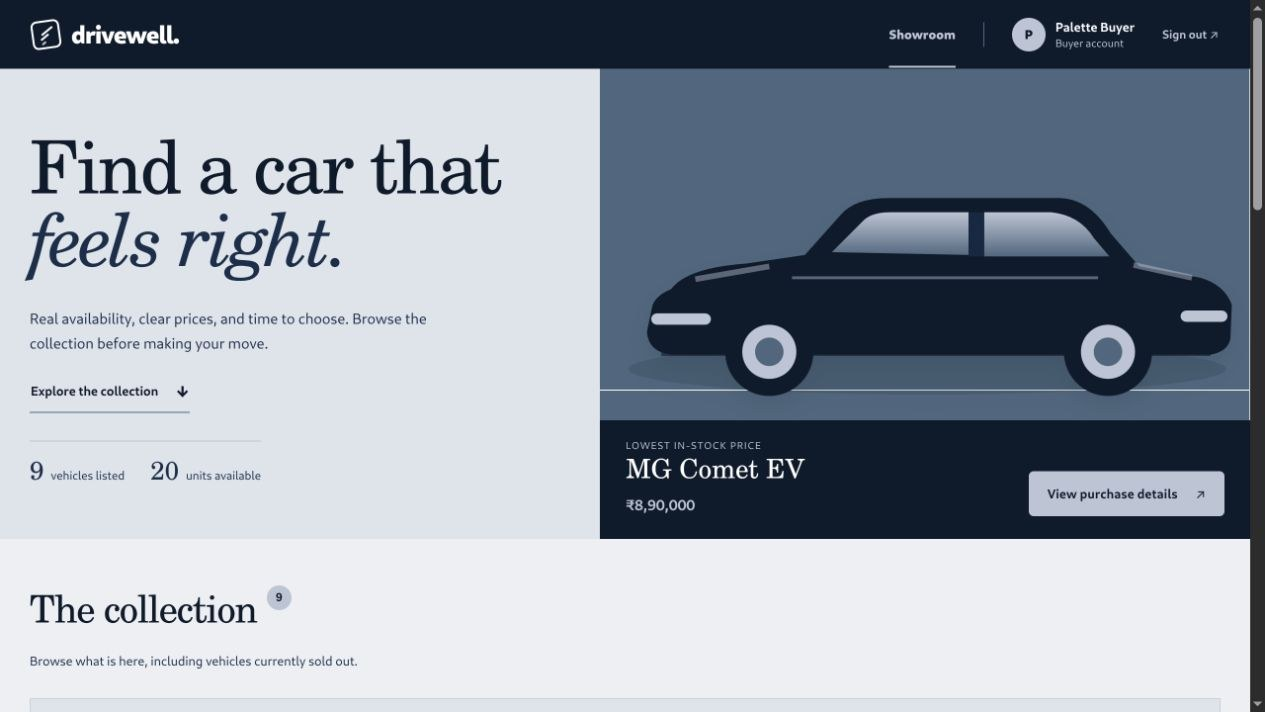
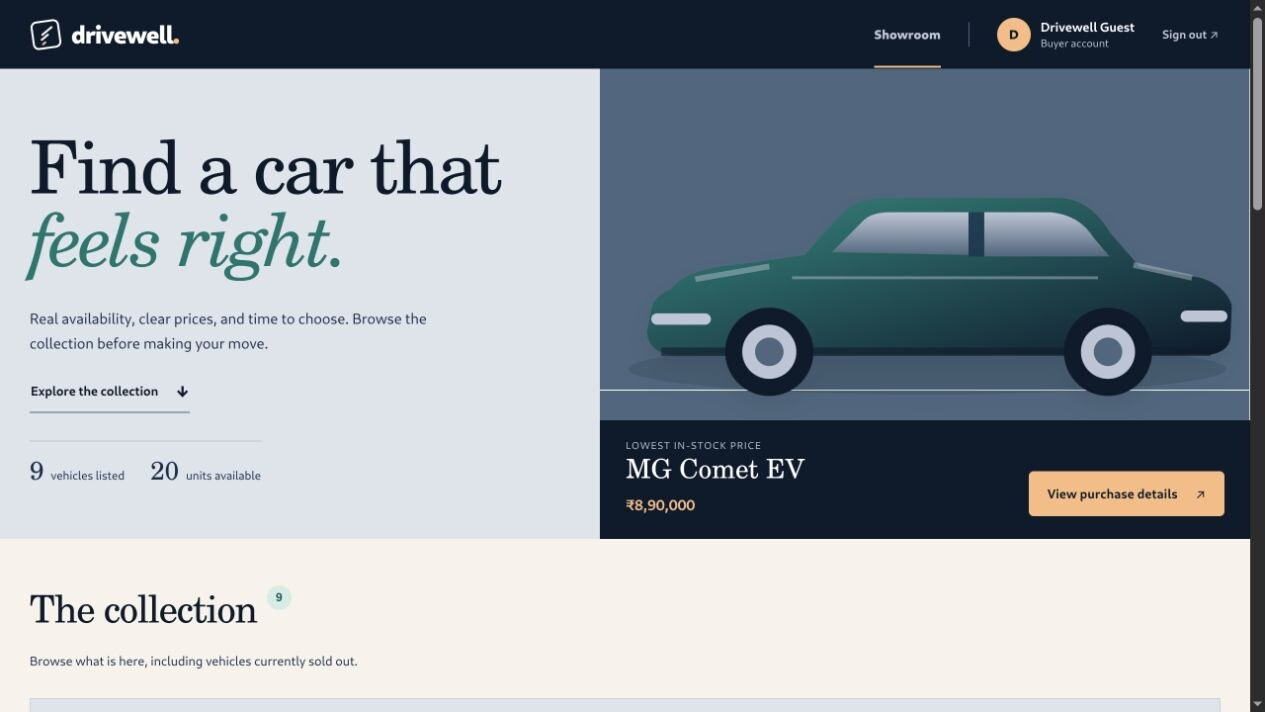
design: add purposeful accents and refresh screenshots
Use apricot for key actions, sea-glass for available stock, and warm colors for low and empty inventory. Give vehicle illustrations category-based color and recapture seven live application states.

diff --git a/src/palette.css b/src/palette.css
@@ -1,42 +1,52 @@
-/* The reference palette: Midnight #1C2E4A, Dusty #52677D,
-   Ivory #BDC4D4, and Deep Navy #0F1A2B. White only lifts reading surfaces. */
+/* The supplied blues anchor the interface. Warm and sea-glass accents make
+   actions and stock states easier to scan without changing its character. */
 :root {
   --midnight-blue: #1c2e4a;
   --dusty-blue: #52677d;
   --ivory: #bdc4d4;
   --deep-navy: #0f1a2b;
-  --paper: color-mix(in srgb, var(--ivory) 27%, white);
+  --warm-cream: #f7f3ec;
+  --apricot: #f2bd89;
+  --copper: #b65a38;
+  --sea-glass: #30766e;
+  --sea-glass-soft: #d9ebe6;
+  --amber-soft: #f6e8d1;
+  --rose-soft: #f4e0dc;
+  --paper: var(--warm-cream);
   --soft-blue: color-mix(in srgb, var(--ivory) 48%, white);
   --line: color-mix(in srgb, var(--dusty-blue) 30%, white);
   --ink: var(--deep-navy);
   --muted: var(--midnight-blue);
   --white: #fff;
-  --orange: var(--ivory);
+  --orange: var(--apricot);
   color: var(--ink);
   background: var(--paper);
 }
 
-::selection { background: var(--ivory); color: var(--deep-navy); }
+::selection { background: var(--apricot); color: var(--deep-navy); }
 .app-shell { background: var(--paper); }
 .header-inner { max-width: none; width: 100%; padding-inline: clamp(18px, 2.5vw, 40px); }
 .site-header, .site-footer { background: var(--deep-navy); color: white; }
-.site-header .brand, .site-header .brand-period { color: white; }
+.site-header .brand { color: white; }
+.site-header .brand-period { color: var(--apricot); }
 .nav-active, .logout-button, .user-text small, .site-footer > span, .site-footer small { color: var(--ivory); }
-.nav-active:after { background: var(--ivory); }
+.nav-active:after { background: var(--apricot); }
 .nav-divider { border-color: var(--dusty-blue); }
-.user-avatar { background: var(--ivory); color: var(--deep-navy); }
+.user-avatar { background: var(--apricot); color: var(--deep-navy); }
 .logout-button:hover { color: white; }
 
 .button-primary { background: var(--midnight-blue); color: white; }
 .button-primary:not(:disabled):hover { background: var(--deep-navy); }
+.add-button { background: var(--sea-glass); }
+.add-button:not(:disabled):hover { background: #205a54; }
 .button-outline { border-color: var(--dusty-blue); color: var(--deep-navy); }
 .button-outline:hover { border-color: var(--midnight-blue); background: var(--soft-blue); }
 .button-quiet { background: var(--soft-blue); color: var(--deep-navy); }
-.button-danger { background: var(--deep-navy); color: white; }
-.button-danger:hover { background: var(--midnight-blue); }
+.button-danger { background: #983f3a; color: white; }
+.button-danger:hover { background: #782f2c; }
 .button:focus-visible, a:focus-visible, input:focus-visible, .row-text-action:focus-visible,
 .logout-button:focus-visible, .attention-item button:focus-visible {
-  outline: 3px solid var(--dusty-blue);
+  outline: 3px solid var(--copper);
   outline-offset: 3px;
 }
 input { background: white; color: var(--deep-navy); border-color: var(--line); }
@@ -44,50 +54,55 @@ input::placeholder { color: var(--dusty-blue); }
 input:focus { border-color: var(--dusty-blue); box-shadow: 0 0 0 3px color-mix(in srgb, var(--dusty-blue) 30%, transparent); }
 label, .muted, .form-hint { color: var(--midnight-blue); }
 .eyebrow, .clear-button { color: var(--midnight-blue); }
-.form-error { color: var(--deep-navy); background: var(--soft-blue); border-color: var(--dusty-blue); border-left-width: 4px; }
-.notice { color: var(--deep-navy); background: var(--soft-blue); border-color: var(--line); }
+.form-error { color: #71302d; background: var(--rose-soft); border-color: #d6a39a; border-left-width: 4px; }
+.notice { color: var(--deep-navy); background: var(--sea-glass-soft); border-color: #a6d0c6; }
 
 .auth-shell, .auth-story { background: var(--ivory); color: var(--deep-navy); }
 .auth-story:before { color: var(--dusty-blue); opacity: .17; }
-.auth-story .brand-light, .auth-story .brand-period, .auth-story .accent-dot { color: var(--deep-navy); }
+.auth-story .brand-light { color: var(--deep-navy); }
+.auth-story .brand-period, .auth-story .accent-dot { color: var(--copper); }
 .auth-story-content p, .auth-story-footer { color: var(--midnight-blue); }
 .auth-panel { background: var(--deep-navy); color: white; }
 .auth-panel h2, .auth-panel .muted, .auth-form label { color: white; }
 .auth-tabs, .auth-footnote { border-color: var(--dusty-blue); }
 .auth-tabs button, .auth-footnote { color: var(--ivory); }
 .auth-tabs button.active { color: white; }
-.auth-tabs button.active:after { background: var(--ivory); }
+.auth-tabs button.active:after { background: var(--apricot); }
 .auth-form input { background: white; }
-.auth-submit { background: var(--ivory); color: var(--deep-navy); }
-.auth-submit:not(:disabled):hover { background: white; }
+.auth-submit { background: var(--apricot); color: var(--deep-navy); }
+.auth-submit:not(:disabled):hover { background: #ffd0a4; }
 
 .workspace-hero { background: var(--midnight-blue); color: white; }
 .workspace-copy p { color: var(--ivory); }
-.workspace-copy .hero-link { color: white; border-color: var(--ivory); }
+.workspace-copy .hero-link { color: var(--apricot); border-color: var(--apricot); }
 .workspace-scoreboard { background: var(--ivory); color: var(--deep-navy); }
-.scoreboard-live i { background: var(--midnight-blue); }
+.scoreboard-live i { background: var(--sea-glass); }
 .workspace-scoreboard > p, .workspace-scoreboard dt { color: var(--midnight-blue); }
 .workspace-scoreboard dl > div { border-color: var(--dusty-blue); }
 
 .showroom-copy { background: var(--soft-blue); color: var(--deep-navy); }
-.showroom-copy h1 em, .showroom-copy p, .showroom-facts, .showroom-facts strong { color: var(--midnight-blue); }
+.showroom-copy h1 em { color: var(--sea-glass); }
+.showroom-copy p, .showroom-facts, .showroom-facts strong { color: var(--midnight-blue); }
 .showroom-copy .hero-link { color: var(--deep-navy); border-color: var(--dusty-blue); }
 .showroom-facts { border-color: var(--ivory); }
 .showroom-feature { background: var(--deep-navy); color: white; }
 .feature-art .vehicle-art { background: var(--dusty-blue); }
-.feature-bottom > div > span, .feature-bottom strong, .feature-empty p { color: var(--ivory); }
-.feature-bottom .button { background: var(--ivory); color: var(--deep-navy); }
-.feature-bottom .button:hover { background: white; }
+.feature-bottom > div > span, .feature-empty p { color: var(--ivory); }
+.feature-bottom strong { color: var(--apricot); }
+.feature-bottom .button { background: var(--apricot); color: var(--deep-navy); }
+.feature-bottom .button:hover { background: #ffd0a4; }
 
 .inventory-heading h2, .attention-intro h2, .empty-state h3 { color: var(--deep-navy); }
 .inventory-heading p, .filters label, .result-line, .empty-state p { color: var(--midnight-blue); }
-.heading-count { background: var(--ivory); color: var(--deep-navy); }
+.heading-count { background: var(--sea-glass-soft); color: #205a54; }
 .filters { background: var(--soft-blue); border-color: var(--line); }
 .empty-state { background: white; border-color: var(--line); }
-.attention-section { background: var(--ivory); border-color: var(--line); }
-.attention-intro p, .attention-item small, .attention-item button { color: var(--midnight-blue); }
-.attention-list, .attention-item + .attention-item { border-color: var(--dusty-blue); }
-.attention-quantity { background: var(--midnight-blue); color: white; }
+.attention-section { background: var(--amber-soft); border-color: #e9d0ab; }
+.attention-intro p, .attention-item small, .attention-item button { color: #6d4930; }
+.attention-item button:hover { color: #8f391f; }
+.attention-list, .attention-item + .attention-item { border-color: #dbbc91; }
+.attention-quantity { background: var(--copper); color: white; }
+.attention-quantity.is-empty { background: #983f3a; }
 
 .inventory-table { background: white; border-color: var(--midnight-blue); }
 .inventory-table-head { background: var(--soft-blue); color: var(--midnight-blue); }
@@ -95,8 +110,9 @@ label, .muted, .form-hint { color: var(--midnight-blue); }
 .inventory-row:hover { background: var(--soft-blue); }
 .row-monogram { background: var(--ivory); color: var(--deep-navy); }
 .inventory-row-name small, .inventory-row-category, .inventory-row-stock,
-.inventory-row-stock.is-low, .inventory-row-stock.is-empty, .inventory-row-price,
-.row-text-action, .row-delete { color: var(--midnight-blue); }
+.inventory-row-price, .row-text-action { color: var(--midnight-blue); }
+.inventory-row-stock.is-low { color: #8b541d; }
+.inventory-row-stock.is-empty, .row-delete { color: #983f3a; }
 
 .buyer-shell .vehicle-card { background: white; border-color: var(--line); }
 .buyer-shell .vehicle-card:hover { box-shadow: 0 18px 34px color-mix(in srgb, var(--deep-navy) 18%, transparent); }
@@ -106,9 +122,9 @@ label, .muted, .form-hint { color: var(--midnight-blue); }
 .card-meta, .buyer-shell .vehicle-card h3 span, .card-price span { color: var(--midnight-blue); }
 .card-price, .admin-card-actions { border-color: var(--line); }
 .buyer-shell .card-price strong { color: var(--deep-navy); }
-.buyer-shell .stock-pill { color: var(--deep-navy); background: var(--ivory); }
-.buyer-shell .stock-pill.low-stock { color: var(--deep-navy); background: var(--soft-blue); outline: 1px solid var(--dusty-blue); }
-.buyer-shell .stock-pill.sold-out { color: white; background: var(--dusty-blue); }
+.buyer-shell .stock-pill { color: #205a54; background: var(--sea-glass-soft); }
+.buyer-shell .stock-pill.low-stock { color: #704313; background: var(--amber-soft); outline: 1px solid #d6b27a; }
+.buyer-shell .stock-pill.sold-out { color: #782f2c; background: var(--rose-soft); }
 .buyer-shell .purchase-button:disabled { background: var(--ivory); color: var(--deep-navy); }
 
 .modal { background: white; color: var(--deep-navy); }
@@ -117,8 +133,8 @@ label, .muted, .form-hint { color: var(--midnight-blue); }
 .modal-header .eyebrow, .dialog-content > p:not(.dialog-lead), .icon-button,
 .history-list small { color: var(--midnight-blue); }
 .icon-button { border-color: var(--line); }
-.success-emblem, .history-symbol { background: var(--ivory); color: var(--deep-navy); border-color: var(--line); }
-.history-symbol.negative { background: var(--dusty-blue); color: white; }
+.success-emblem, .history-symbol { background: var(--sea-glass-soft); color: #205a54; border-color: #a6d0c6; }
+.history-symbol.negative { background: var(--rose-soft); color: #782f2c; }
 
 @media (max-width: 690px) {
   .header-inner { padding-inline: 18px; }

diff --git a/src/App.tsx b/src/App.tsx
@@ -34,11 +34,9 @@ function Logo({ light = false }: { light?: boolean }) {
 }
 
 function VehicleArt({ vehicle, large = false }: { vehicle: Vehicle; large?: boolean }) {
-  const colors = ['#52677d', '#1c2e4a', '#52677d', '#0f1a2b'];
-  const index = [...vehicle.model].reduce((sum, character) => sum + character.charCodeAt(0), 0) % colors.length;
-  const color = colors[index];
   const category = vehicle.category.toLowerCase();
   const shape = category.includes('suv') || category.includes('adventure') ? 'suv' : category.includes('family') ? 'mpv' : category.includes('electric') ? 'compact' : 'sedan';
+  const color = { suv: '#52677d', mpv: '#b66d51', compact: '#39877f', sedan: '#b75f45' }[shape];
   const artId = useId().replace(/:/g, '');
   const bodies = {
     sedan: 'M67 145 Q76 127 112 124 L159 119 Q182 75 230 69 L338 69 Q386 74 410 119 L453 127 Q473 132 480 148 L477 179 Q474 188 463 189 L69 189 Q56 185 56 175 L59 156 Q60 149 67 145Z',
@@ -308,7 +306,7 @@ function App() {
       </section>}
 
       <section className="content-wrap" id="inventory">
-        {isAdmin && lowStockVehicles.length > 0 && <section className="attention-section" aria-label="Vehicles needing attention"><div className="attention-intro"><h2>Restock queue</h2><p>Zero or one unit remaining. Take action before a buyer reaches an empty listing.</p></div><div className="attention-list">{lowStockVehicles.map((vehicle) => <div className="attention-item" key={vehicle.id}><span className="attention-quantity">{vehicle.quantity === 0 ? 'OUT' : '01'}</span><span><strong>{vehicle.make} {vehicle.model}</strong><small>{vehicle.quantity === 0 ? 'Out of stock' : 'Only one left'}</small></span><button onClick={() => open('restock', vehicle)} aria-label={`Restock ${vehicle.make} ${vehicle.model}`}>Restock <span aria-hidden="true">↗</span></button></div>)}</div></section>}
+        {isAdmin && lowStockVehicles.length > 0 && <section className="attention-section" aria-label="Vehicles needing attention"><div className="attention-intro"><h2>Restock queue</h2><p>Zero or one unit remaining. Take action before a buyer reaches an empty listing.</p></div><div className="attention-list">{lowStockVehicles.map((vehicle) => <div className="attention-item" key={vehicle.id}><span className={`attention-quantity ${vehicle.quantity === 0 ? 'is-empty' : ''}`}>{vehicle.quantity === 0 ? 'OUT' : '01'}</span><span><strong>{vehicle.make} {vehicle.model}</strong><small>{vehicle.quantity === 0 ? 'Out of stock' : 'Only one left'}</small></span><button onClick={() => open('restock', vehicle)} aria-label={`Restock ${vehicle.make} ${vehicle.model}`}>Restock <span aria-hidden="true">↗</span></button></div>)}</div></section>}
         <div className="inventory-heading"><div><h2>{isAdmin ? 'Inventory records' : 'The collection'}<span className="heading-count">{vehicles.length}</span></h2><p>{isAdmin ? 'Search, correct, and trace every vehicle in one place.' : 'Browse what is here, including vehicles currently sold out.'}</p></div>{isAdmin && <button className="button button-primary add-button" onClick={() => open('add')}>+ Add vehicle</button>}</div>
         <div className="filters" aria-label="Vehicle filters">
           <label>MAKE<input value={filters.make} onChange={(event) => setFilters({ ...filters, make: event.target.value })} placeholder="Search make" /></label>

diff --git a/PROMPTS.md b/PROMPTS.md
@@ -291,3 +291,41 @@ The admin screen now uses the supplied blue palette, and the header groups sit n
 Both screens look consistent with the new palette. The buyer cards, sold-out state, and receipt also render clearly, and the screenshots are refreshed. I’m updating the design notes and running the final checks.
 ~~~
 
+## Accent and screenshot follow-up — 2026-10-25
+
+### User
+
+~~~text
+also no need to follow the template strictly you can add some relevant and good looking colors at some places/sections and also update the screenshots in the readme as well
+~~~
+
+### Assistant
+
+~~~text
+I’ll add a few restrained accent colors where they help distinguish actions and status, then capture fresh README screenshots from the updated interface. I’ll check the current branch and existing design first.
+~~~
+
+### Assistant
+
+~~~text
+The current version uses the four reference colors almost everywhere, so stock warnings and primary actions blend into the surrounding panels. I’m keeping the navy and blue structure while adding a small warm accent for actions and a clearer set of colors for availability.
+~~~
+
+### Assistant
+
+~~~text
+The updated views look coherent in the browser: the warm action color draws the eye, while teal marks available stock and the sand panel separates the restock queue. I’m refreshing the screenshots now using a disposable preview account and database.
+~~~
+
+### Assistant
+
+~~~text
+The seven README images are refreshed, including the low-stock queue, a sold-out listing, and the test receipt. The production build and all 10 tests pass. I’m finishing the documentation and privacy check, then I’ll commit and push the design branch.
+~~~
+
+### Assistant
+
+~~~text
+Done. I kept the navy and blue foundation and added apricot for primary actions, teal for available stock, and amber and rose for low or empty stock. Vehicle artwork now has distinct body colors. I refreshed all seven README screenshots using disposable preview data and updated the design notes. The production build and all 10 tests pass. The changes are pushed to `design/drivewell-ui-refinement`.
+~~~
+

diff --git a/README.md b/README.md
@@ -17,6 +17,8 @@ A purchase records an inventory change and reduces stock by one. **This demo doe
 
 ## Screenshots
 
+Captured from the running app with seeded demo inventory and disposable preview accounts. The receipt shows a test purchase; no payment was taken.
+
 ![Sign-in screen](docs/screenshots/sign-in.jpg)
 
 ![Inventory overview](docs/screenshots/inventory-overview.jpg)
@@ -106,7 +108,7 @@ The stock history and guarded final-unit purchase are deliberately practical add
 
 ### Design choices
 
-- The header places the Drivewell mark near the left edge and account controls near the right edge, leaving the center clear at wide widths. The palette follows the supplied Midnight Blue (`#1C2E4A`), Dusty Blue (`#52677D`), Ivory (`#BDC4D4`), and Deep Navy (`#0F1A2B`) reference; white is used only to lift reading surfaces and text.
+- The header places the Drivewell mark near the left edge and account controls near the right edge, leaving the center clear at wide widths. Midnight Blue (`#1C2E4A`), Dusty Blue (`#52677D`), Ivory (`#BDC4D4`), and Deep Navy (`#0F1A2B`) anchor the palette. Apricot draws attention to primary actions, sea-glass marks available stock, and warm amber and rose distinguish low and empty stock.
 - The buyer showroom and admin stock desk have different layouts because their jobs are different. Buyers see a featured car with the lowest in-stock price and browse horizontal vehicle cards. Admins get a compact stock ledger, live totals, and a restock queue for cars with zero or one unit left.
 - Search remains available in both views. Sold-out listings stay visible to buyers with the purchase action disabled; admins can restock, edit, trace stock history, or remove a listing from the ledger.
 - Category-based illustrations give the collection character without implying that they are photos of the exact listed cars. Stock counts and prices remain text rather than information carried only by color or decoration.
